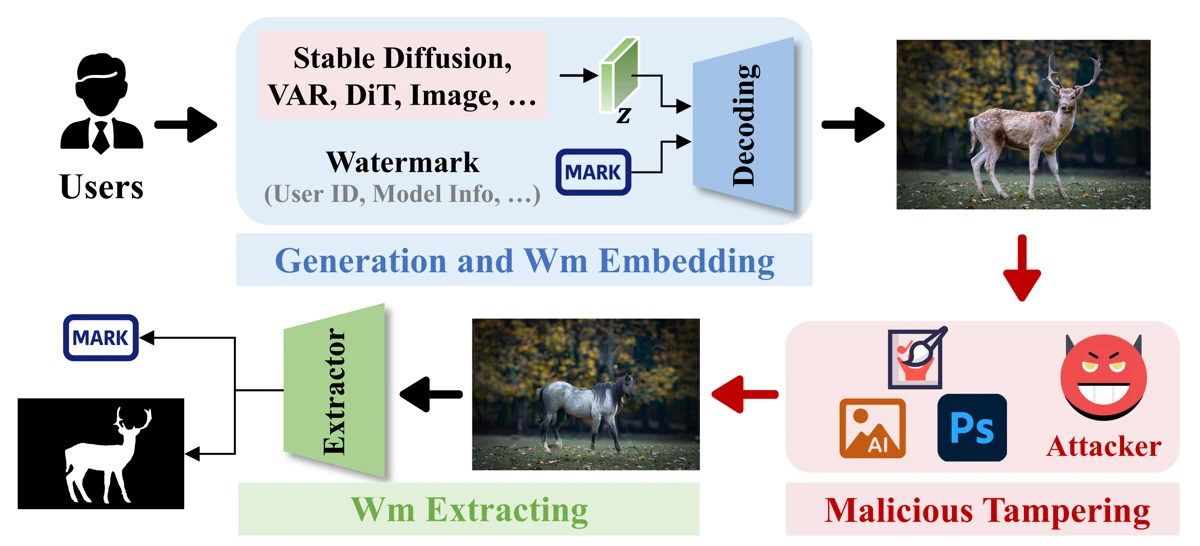
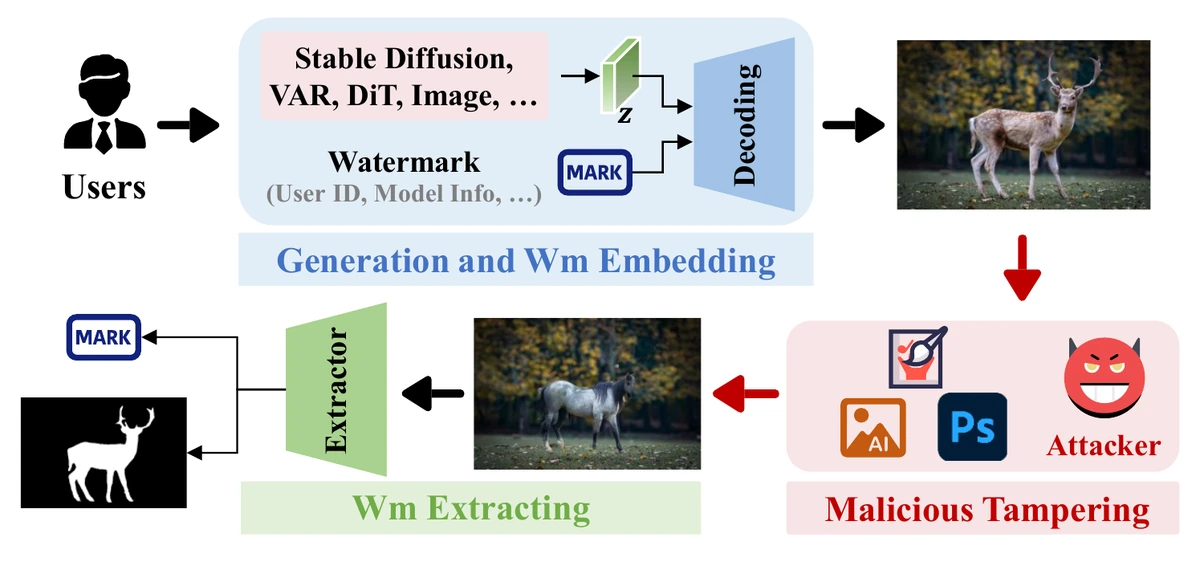
Use original figures and contribution-focused descriptions for every selected paper

diff --git a/_includes/selected-publications.html b/_includes/selected-publications.html
@@ -3,9 +3,12 @@
   {% for paper in site.data.selected_publications %}
   <article class="selected-publication" aria-labelledby="paper-{{ paper.id }}">
     {% if paper.image %}
-    <a class="selected-publication__figure image-popup" href="{{ paper.image | relative_url }}" aria-label="View the {{ paper.short_name }} figure at full size">
-      <img src="{{ paper.image | relative_url }}" alt="{{ paper.image_alt | escape }}" loading="lazy" width="{{ paper.image_width }}" height="{{ paper.image_height }}">
-    </a>
+    <figure class="selected-publication__figure">
+      <a class="selected-publication__figure-link image-popup" href="{{ paper.image_full | default: paper.image | relative_url }}" title="{{ paper.short_name | escape }} — {{ paper.figure_label | escape }}" aria-label="View the {{ paper.short_name }} figure at full size">
+        <img src="{{ paper.image | relative_url }}" alt="{{ paper.image_alt | escape }}" loading="lazy" width="{{ paper.image_width }}" height="{{ paper.image_height }}">
+      </a>
+      <figcaption>{{ paper.figure_label | escape }}</figcaption>
+    </figure>
     {% endif %}
     <div class="selected-publication__text">
       <h2 class="selected-publication__title" id="paper-{{ paper.id }}"><a href="{{ paper.paper_url }}">{{ paper.title | escape }}</a></h2>

diff --git a/_sass/_selected-publications.scss b/_sass/_selected-publications.scss
@@ -12,14 +12,29 @@
 
   .selected-publication__figure {
     flex: 0 0 210px;
-    display: block;
+    width: 210px;
     margin: 0;
+
+    figcaption {
+      margin-top: 0.45em;
+      color: $dark-gray;
+      font-size: 0.75em;
+      line-height: 1.4;
+      text-align: center;
+    }
+  }
+
+  .selected-publication__figure-link {
+    display: flex;
+    align-items: center;
+    justify-content: center;
+    width: 100%;
+    height: 155px;
 
     img {
       display: block;
       width: 100%;
-      height: auto;
-      max-height: 165px;
+      height: 100%;
       object-fit: contain;
       box-shadow: none;
     }

diff --git a/images/papers/README.md b/images/papers/README.md
@@ -1,23 +1,35 @@
 # Publication figures
 
-These are web-sized copies of the authors' existing figures. No experimental
-results have been generated or reconstructed for the website.
+All five selected papers use complete original figures extracted from the
+author-supplied PDFs. The manuscripts themselves are not included in the site.
+Only surrounding page furniture, body text, and separate captions are outside
+the crops. No scientific elements, labels, arrows, results, or colors have been
+redrawn, removed, or generated.
 
-## GenPTW overview
+Each homepage thumbnail is a proportionally resized 1200-pixel-wide WebP. The
+larger PNG linked from the thumbnail preserves the original figure crop at high
+resolution. Display uses `object-fit: contain`, without stretching or cropping
+the figure to fill its reserved display area.
 
-- Local file: `genptw-overview.webp`
-- Source: https://github.com/yichao-tang/GenPTW/blob/main/assets/1.png
-- Original figure: 6652 x 3024 PNG, resized to 1200 x 546 WebP.
-- The complete figure is retained.
+Coordinates below are PDF points, origin at the top-left: `[left, top, right,
+bottom]`. PDF page numbers are one-based.
 
-## STDM-RRW extraction and reconstruction
+| Paper | Figure / PDF page | Crop | Render DPI | WebP dimensions |
+| --- | --- | --- | --- | --- |
+| QS-QIM-RRW | Fig. 4 / page 6 | [75.96, 200.04, 273.96, 313.08] | 600 | 1200 x 685 |
+| GenPTW | Fig. 1 / page 1 | [319, 232, 558, 344] | 450 | 1200 x 562 |
+| DNLMark | Fig. 1 / page 3 | [77.94, 69.84, 536.04, 263.88] | 400 | 1200 x 508 |
+| FrPCET-RRW | Fig. 4 / page 7 | [33.84, 63.90, 297.90, 253.98] | 400 | 1200 x 864 |
+| STDM-RRW | Fig. 3 / page 8 | [327, 52, 548, 274] | 450 | 1200 x 1205 |
 
-- Local file: `stdm-rrw-extraction.png`
-- Author-hosted paper: https://www.comp.hkbu.edu.hk/~ymc/papers/journal/TIFS3372811.pdf
-- DOI: https://doi.org/10.1109/TIFS.2024.3372811
-- Figure 3, PDF page 8, extracted at 200 DPI to 630 x 620 PNG.
-- The complete figure is retained; its caption and surrounding body text are omitted.
+## Sources and figure selection
 
-The other selected entries retain their text presentation until an appropriate
-original figure is available. Add an `image`, `image_width`, `image_height`, and
-descriptive `image_alt` to `_data/selected_publications.yml` to display a figure.
+- **QS-QIM-RRW:** author's final submitted version of [the T-IFS paper](https://ieeexplore.ieee.org/document/11753674). Figure 4 shows decoding-region equalization and the resulting quantization strips. It is more compact than the full embedding/extraction flowcharts.
+- **GenPTW:** author's camera-ready version of [the AAAI paper](https://ojs.aaai.org/index.php/AAAI/article/view/37412). Figure 1 illustrates generation/embedding, editing, provenance extraction, and tamper localization.
+- **DNLMark:** author's copy of [the ICASSP paper](https://ieeexplore.ieee.org/document/11464215). Figure 1 retains the complete architecture, including the image-noise and latent-noise branches and the frozen/trainable legend.
+- **FrPCET-RRW:** author's published copy of [the T-MM paper](https://ieeexplore.ieee.org/document/11207540/). Figure 4 shows watermark extraction and the separate intact-image reconstruction path.
+- **STDM-RRW:** author's published copy of [the T-IFS paper](https://ieeexplore.ieee.org/document/10458701). Figure 3 shows extraction after attacks and recovery of the original image only when unattacked. An [author-hosted copy](https://www.comp.hkbu.edu.hk/~ymc/papers/journal/TIFS3372811.pdf) is also public.
+
+The short contribution sentences in `_data/selected_publications.yml` paraphrase
+the corresponding abstracts, method descriptions, contribution lists and
+conclusions. They introduce no numerical or universal robustness claims.
